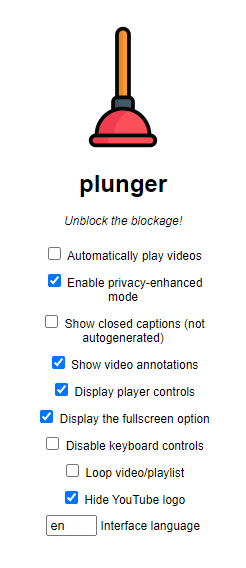
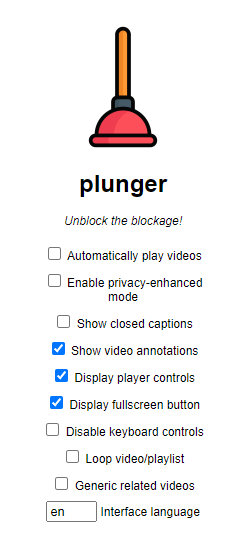
Updated options and README.md

diff --git a/popup.html b/popup.html
@@ -37,7 +37,7 @@
         </label>
         <label>
             <input type="checkbox" id="cc_load_policy">
-            Show closed captions (not autogenerated)
+            Show closed captions
         </label>
         <label>
             <input type="checkbox" id="iv_load_policy">
@@ -49,7 +49,7 @@
         </label>
         <label>
             <input type="checkbox" id="fs">
-            Display the fullscreen option
+            Display fullscreen button
         </label>
         <label>
             <input type="checkbox" id="disablekb">
@@ -60,8 +60,8 @@
             Loop video/playlist
         </label>
         <label>
-            <input type="checkbox" id="modestbranding">
-            Hide YouTube logo
+            <input type="checkbox" id="rel">
+            Generic related videos
         </label>
         <label>
             <input type="text" id="hl" size="2">

diff --git a/content.js b/content.js
@@ -60,9 +60,9 @@ function onSettingsRetrieved(vid) {
         controls: true,
         disablekb: false,
         loop: false,
-        modestbranding: true,
         iv_load_policy: true,
         fs: true,
+        rel: false,
         hl: 'en',
     }, settings => {
         updatePlayer(vid, settings);

diff --git a/popup.js b/popup.js
@@ -6,9 +6,9 @@ document.addEventListener('DOMContentLoaded', () => {
         controls: true,
         disablekb: false,
         loop: false,
-        modestbranding: true,
         iv_load_policy: true,
         fs: true,
+        rel: false,
         hl: 'en',
     };
 

diff --git a/README.md b/README.md
@@ -1,4 +1,4 @@
-# ![plunger use](icon16.png) Plunger
+# ![plunger use](icon32.png) Plunger
 
 ## The Youtube Adblock Blockage Remover
 
@@ -12,16 +12,103 @@ Plunger is really just an adblock blocker workaround – it's an innovative solu
 
 * Bypass Ad-Block Detectors: Plunger deals with ad-block detectors like a charm, letting you get to the good part without a wait.
 * Privacy-Friendly Viewing: Can be set to use 'youtube-nocookie.com' - although some videos may not work with this setting.
-* Autoplay Control: You decide if videos should start playing on their own. After all, who likes jump scares?
 * Discreet and Efficient: Does the job quietly and efficiently, with no drama.
 
 ## Easy to Use:
 
-Plunger is a no-fuss, install-and-forget kind of extension. It works quietly behind the scenes, keeping your YouTube experience clean and smooth. Should you wish to tweak the settings for autoplay, privacy, etc a simple options menu is available.
+Plunger is a no-fuss, install-and-forget kind of extension. It works quietly behind the scenes, keeping your YouTube experience clean and smooth. Should you wish to tweak the settings for autoplay, privacy, language, etc a simple options menu is available.
 
-# ![plunger settings](plunger-settings.png)
+## Settings 
 
-For a full description of the options see https://developers.google.com/youtube/youtube_player_demo
+# ![plunger default settings](plunger-settings.png)
+
+### `Automatically play videos`
+
+This parameter specifies whether the initial video will automatically start to play when the player loads.
+
+*   `off` (default) playback will not automatically start
+*   `on` playback will automatically start
+
+### `Enable privacy-enhanced mode`
+
+This parameter specifies whether privacy-enhanced mode is used. 
+
+*   `off` (default) player will use `www.youtube.com`
+*   `on` player will use `www.youtube-nocookie.com`
+
+### `Show closed captions`
+
+This parameter specifies whether closed captions are displayed, however only works for customn closed captions, not for auto generated onees.
+
+*   `off` (default) Closed captions are not shown.
+*   `on` Closed captions are shown.
+
+### `Show video annotations`
+
+This parameter specifies whether video annotations are displayed:
+
+*   `off` Video annotations are not shown.
+*   `on` (default) Video annotations are shown.
+
+### `Display player controls`
+
+This parameter specifies whether the video player controls are displayed:
+
+*   `off` Player controls do not display in the player.
+*   `on` (default) Player controls display in the player.
+
+### `Display fullscreen button`
+
+This parameter specifies whether the fullscreen button is displayed in the player. The default value is `1`, which causes the fullscreen button to display.
+
+*   `off` The fullscreen button is hidden
+*   `on` (default) The fullscreen button is displayed
+
+### `Disable keyboard controls`
+
+This parameter specifies whether the player will respond to keyboard controls.
+
+*   `off` (default) Keyboard controls are enabled
+*   `on` Keyboard controls are disabled
+
+#### Currently supported keyboard controls are:
+
+
+*   <kbd>Spacebar</kbd> or <kbd>k</kbd>: Play / Pause
+*   <kbd>←</kbd>: Jump back 5 seconds in the current video
+*   <kbd>→</kbd>: Jump ahead 5 seconds in the current video
+*   <kbd>↑</kbd>: Volume up
+*   <kbd>↓</kbd>: Volume Down
+*   <kbd>f</kbd>: Toggle full-screen display
+*   <kbd>j</kbd>: Jump back 10 seconds in the current video
+*   <kbd>l</kbd>: Jump ahead 10 seconds in the current video
+*   <kbd>m</kbd>: Mute or unmute the video
+*   <kbd>0</kbd>-<kbd>9</kbd>: Jump to a point in the video. <kbd>0</kbd> jumps to the beginning of the video, <kbd>1</kbd> jumps to the point 10% into the video, <kbd>2</kbd> jumps to the point 20% into the video, and so forth.
+
+### `Loop video/playlist`
+
+This parameter specifies whether the player should play the video repeatedly 
+In the case of a playlist the player plays the entire playlist and then starts again at the first video.  
+  
+*   `off` (default) Don't loop the video/playlist
+*   `on` Loop the video/playlist
+
+### `Generic related videos`
+
+This parameter specifies if related videos will come from the same channel or be generic. 
+  
+*   `off` (default) related videos will come from the same channel as the video that was just played.
+*   `on` Related videos will be more general
+
+### `Interface language`
+
+This parameter specifies the player's interface language.
+
+The parameter value is an [ISO 639-1 two-letter language code](http://www.loc.gov/standards/iso639-2/php/code_list.php) or a fully specified locale. For example, `fr` and `fr-ca` are both valid values. Other language input codes, such as IETF language tags (BCP 47) might also be handled properly.  
+  
+The interface language is used for tooltips in the player and also affects the default caption track. Note that YouTube might select a different caption track language for a particular user based on the user's individual language preferences and the availability of caption tracks.
+
+*   `en` (default) Use English
 
 ## Instalation
 
@@ -31,7 +118,7 @@ For a full description of the options see https://developers.google.com/youtube/
 4) Choose "Load unpacked extension"
 5) select the "plunger" folder you donwloaded in step one. 
 
-...The extension is "Pending review" is the chrome store...not sure if it will just get taken down :(
+...The extension is "Pending review" is the chrome store...not sure if it will just get regected or not :(
     
 Anyhow - this way you can see the code and deciced for yourself if you want to use it regardless.
 
